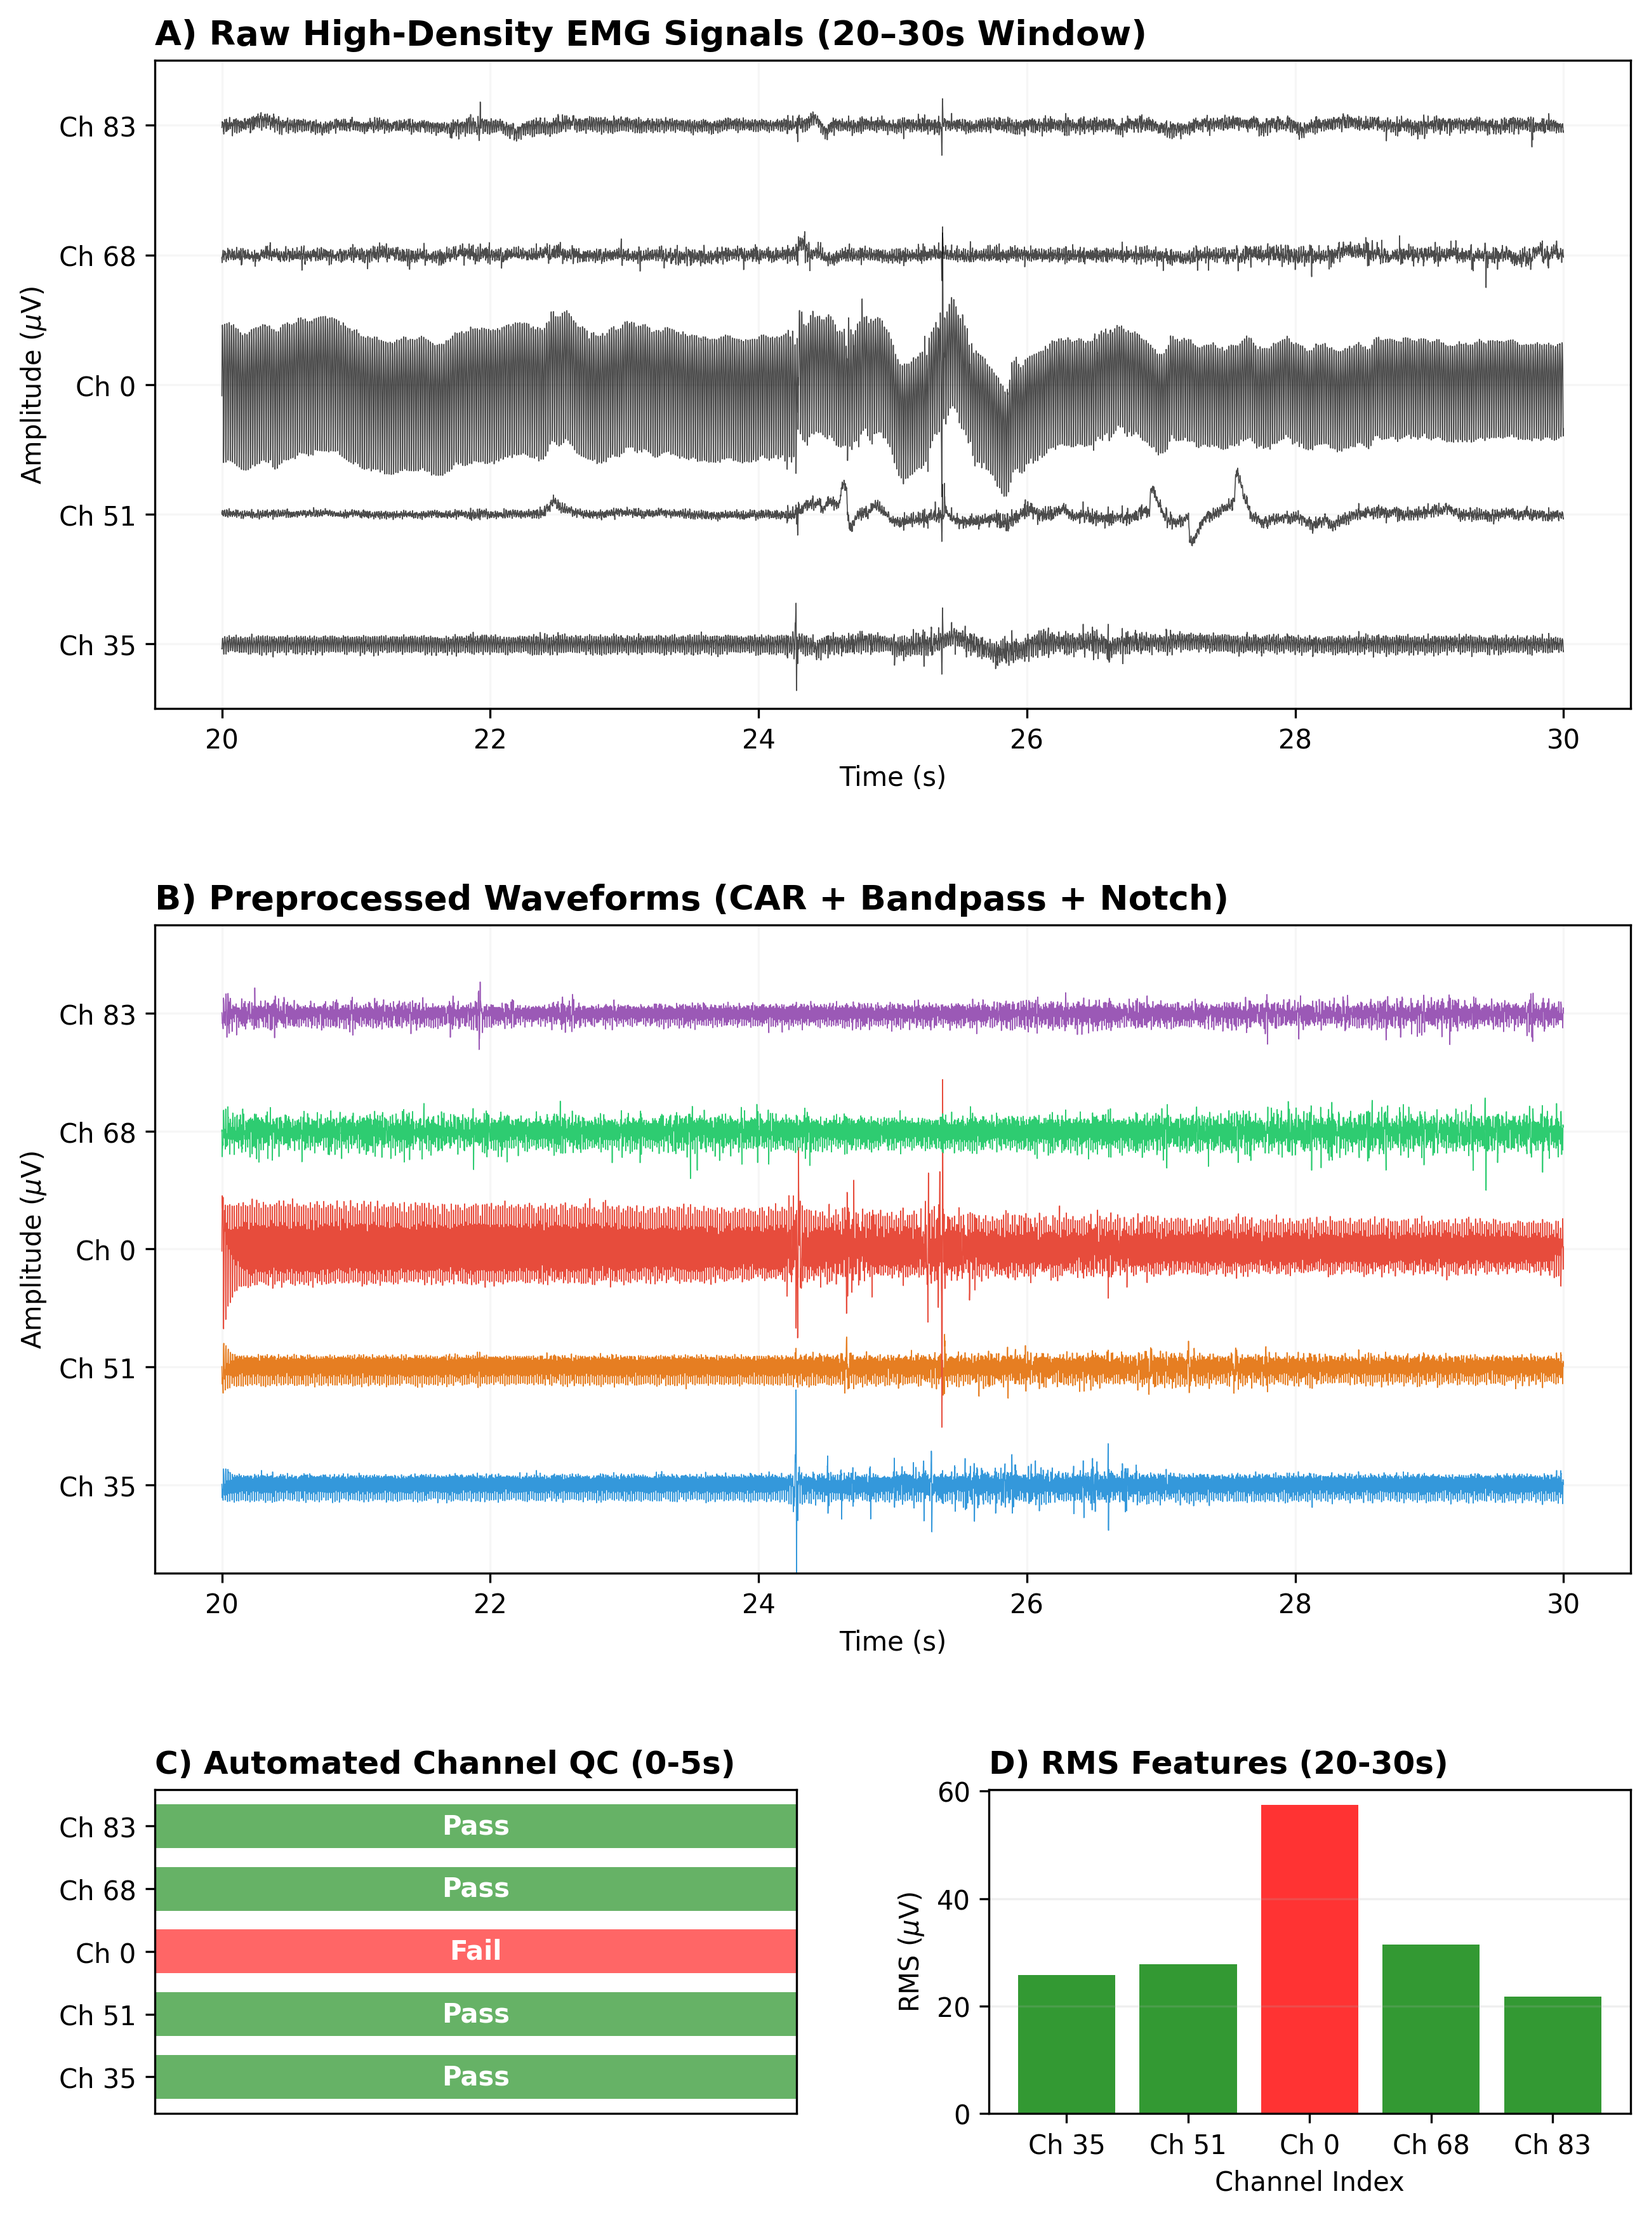
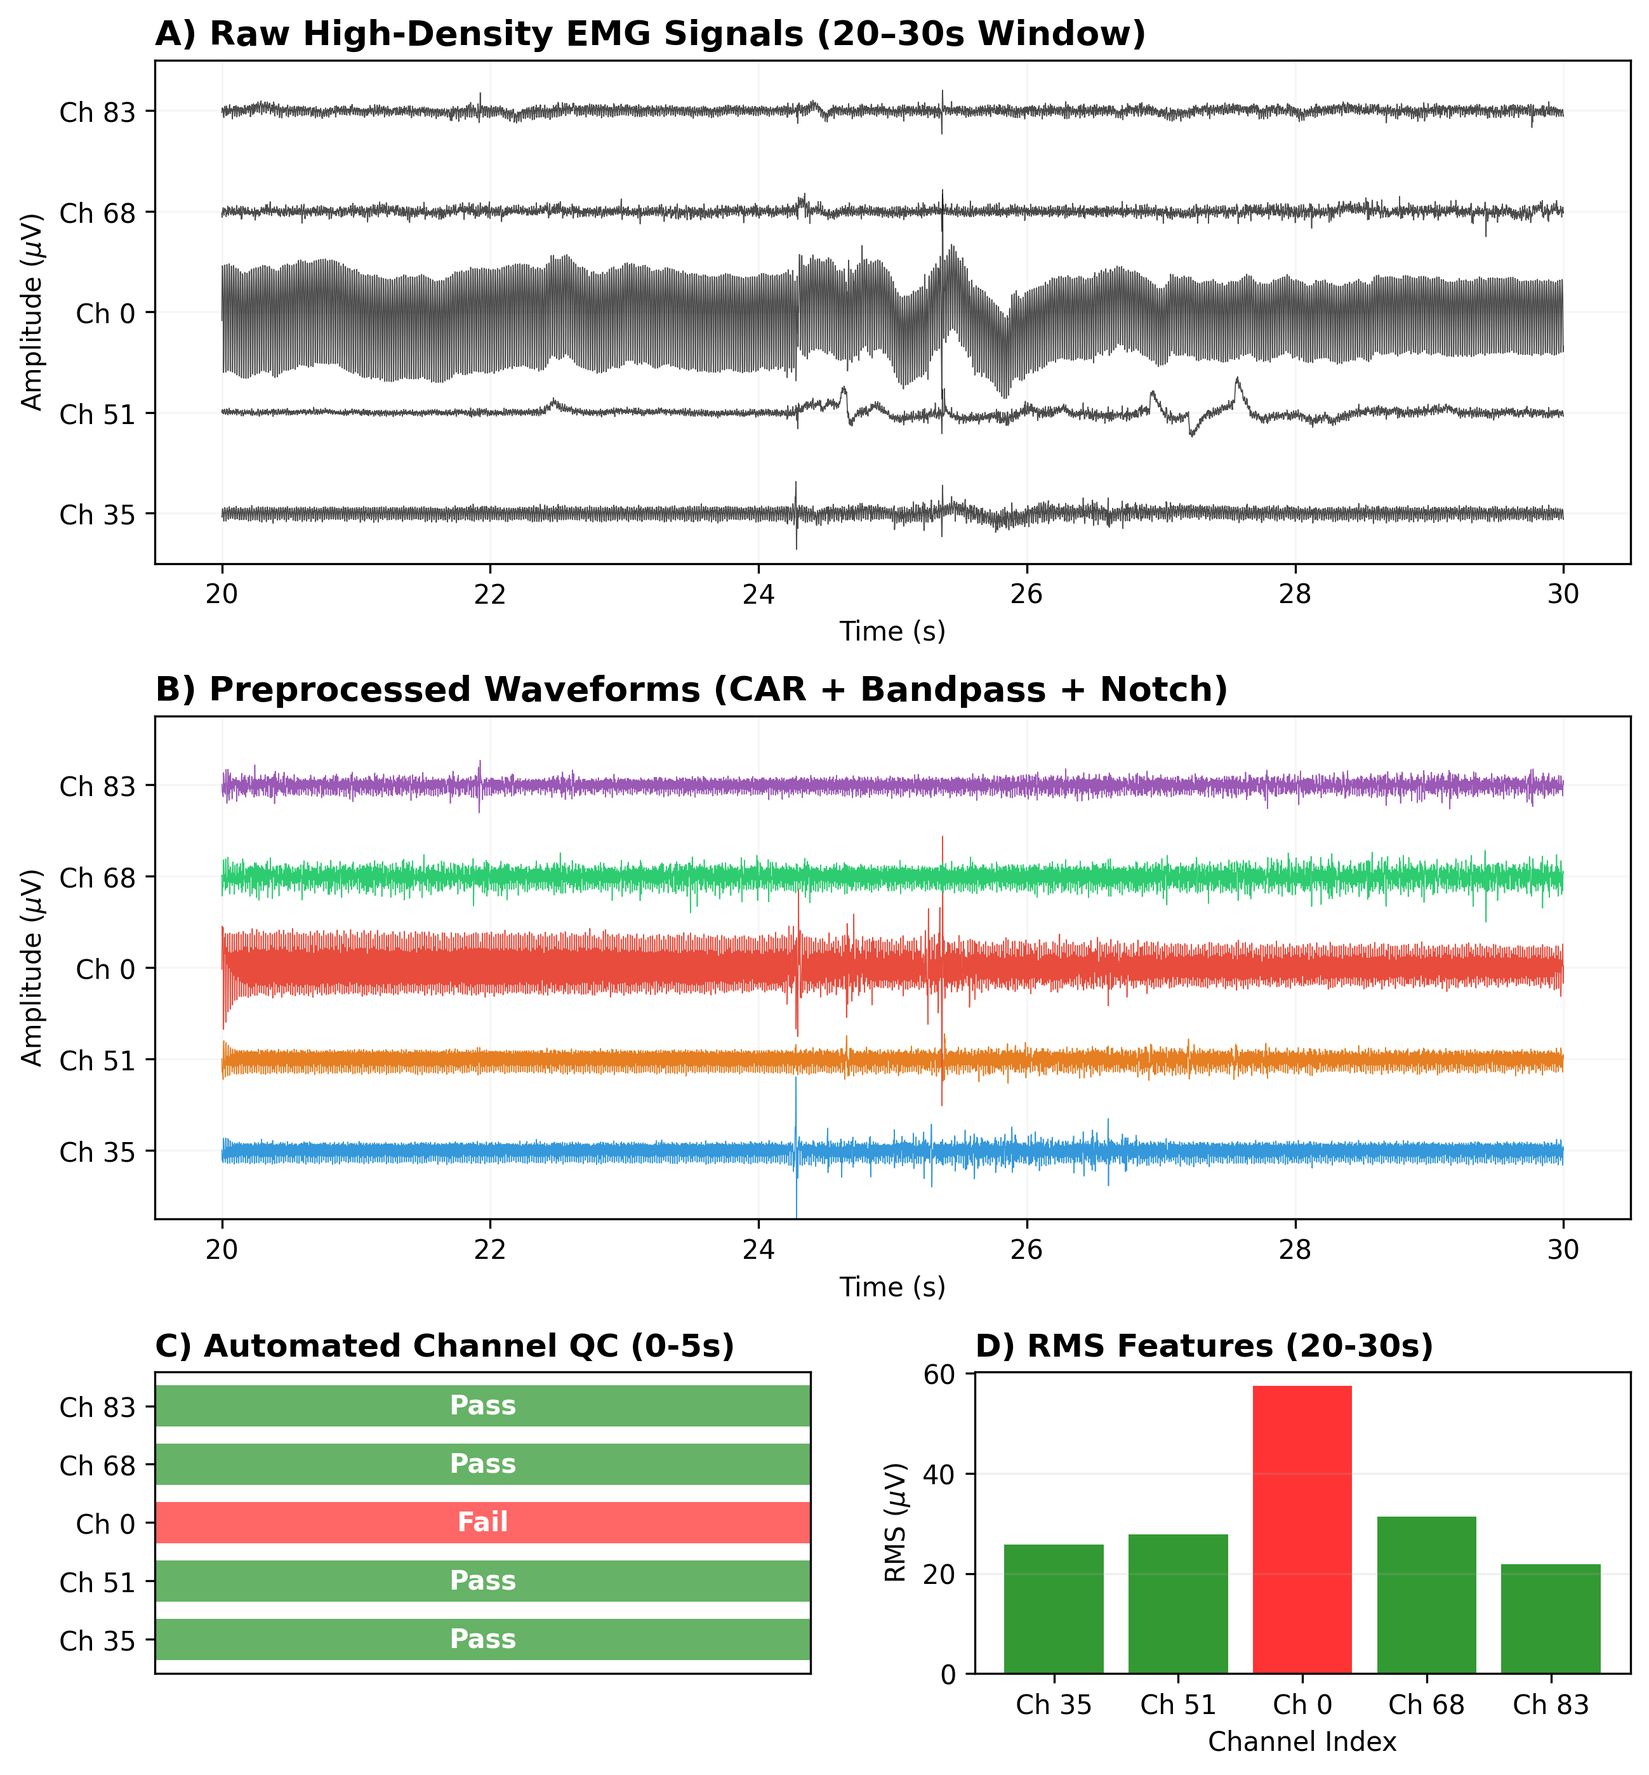
docs: expand research impact and optimize figure dimensions

diff --git a/paper.md b/paper.md
@@ -50,7 +50,12 @@ The field of neural data analysis is supported by several specialized tools. The
 
 # Research Impact
 
-`python-oephys` has been deployed in the Neuromechatronics Lab at Carnegie Mellon University to support research in high-density EMG-based human-computer interaction and robotic control. Its ability to provide sub-millisecond latency for feature extraction has enabled more responsive myoelectric interfaces compared to previous custom implementations.
+`python-oephys` is a foundational component of the research infrastructure at the Neuromechatronics Lab at Carnegie Mellon University. Its deployment has significantly advanced several core research thrusts:
+
+1. **High-Density Myoelectric Control**: By providing a high-performance pipeline capable of processing 64+ channels of HD-EMG data in real-time, the toolkit enables the development of sophisticated human-machine interfaces. It supports the transition from laboratory-based offline analysis to live, closed-loop control of robotic prostheses and assistive devices.
+2. **Standardization and Reproducibility**: The modular design of `pyoephys` ensures that signal processing standards (e.g., CAR, specific filtering bands, and QC metrics) are consistent across various research projects. This reduces "re-invention" time and lowers the barrier for new researchers entering the field of neuro-engineering.
+3. **Low-Latency Inference**: The tight integration of PyTorch and ZeroMQ allows for sub-10ms feature extraction and classification latencies. This responsiveness is critical for minimizing the user-perceived delay in myoelectric control, which is a primary determinant of user acceptance and system efficacy.
+4. **Hardware Agnostic Processing**: While specialized for the Open Ephys ecosystem, the internal data structures and processing pipelines are extensible to other electrophysiology systems, providing a bridge between disparate hardware platforms and common machine learning frameworks.
 
 # Acknowledgements
 
